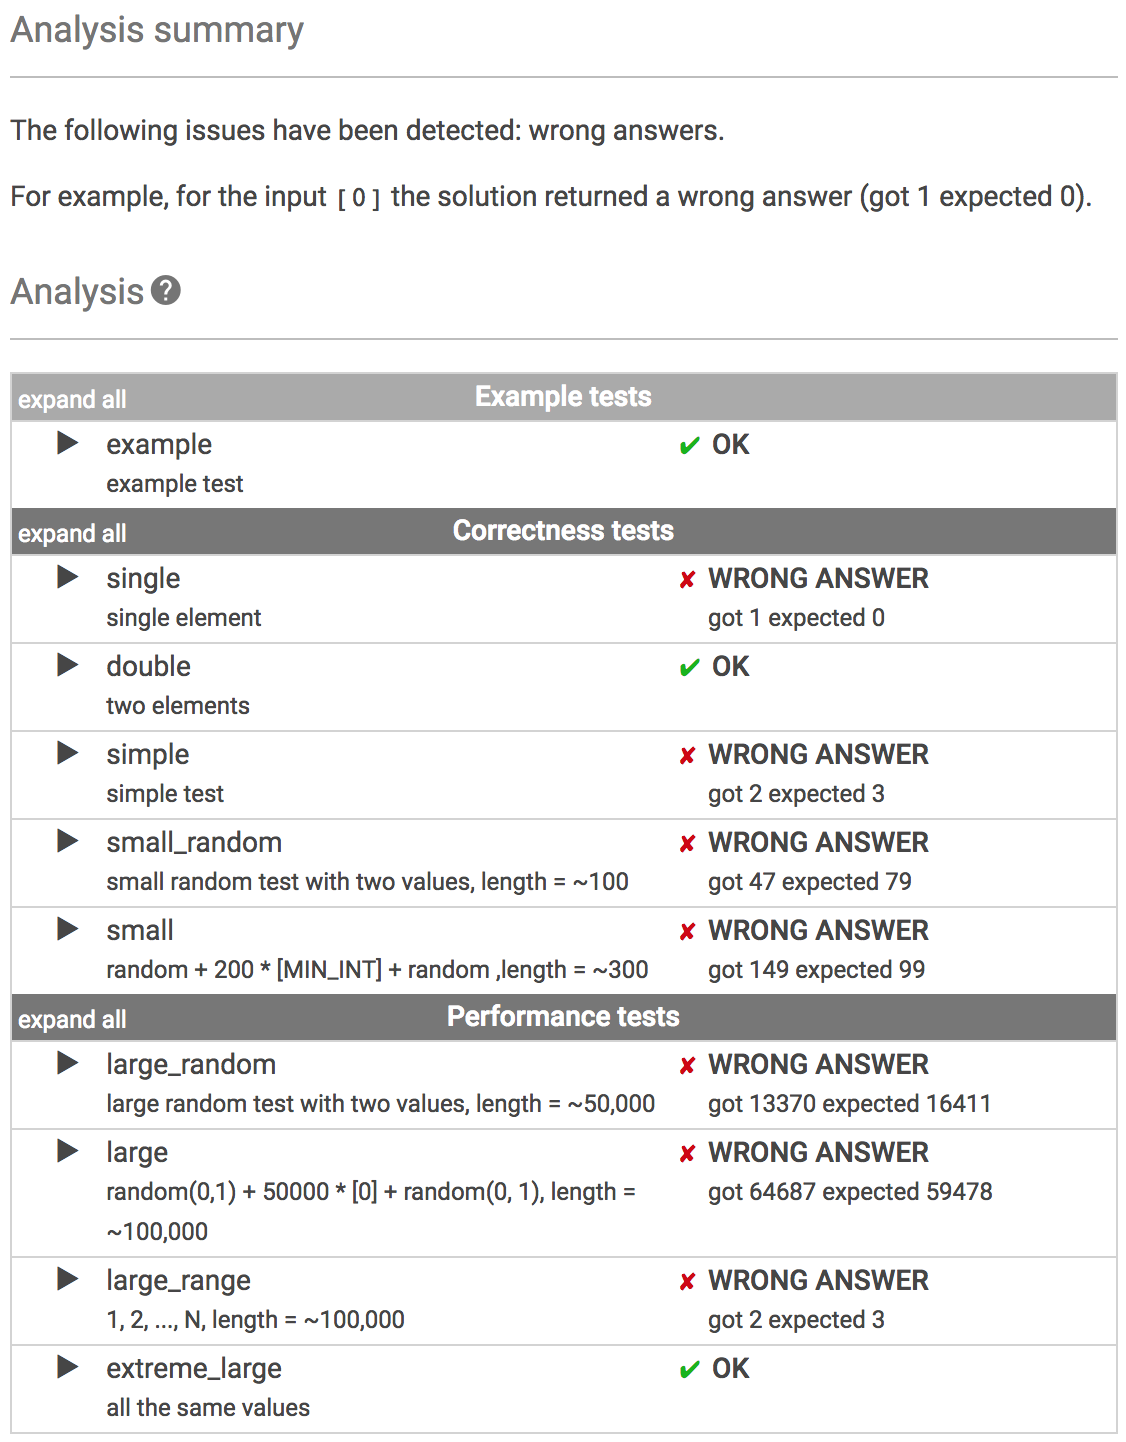
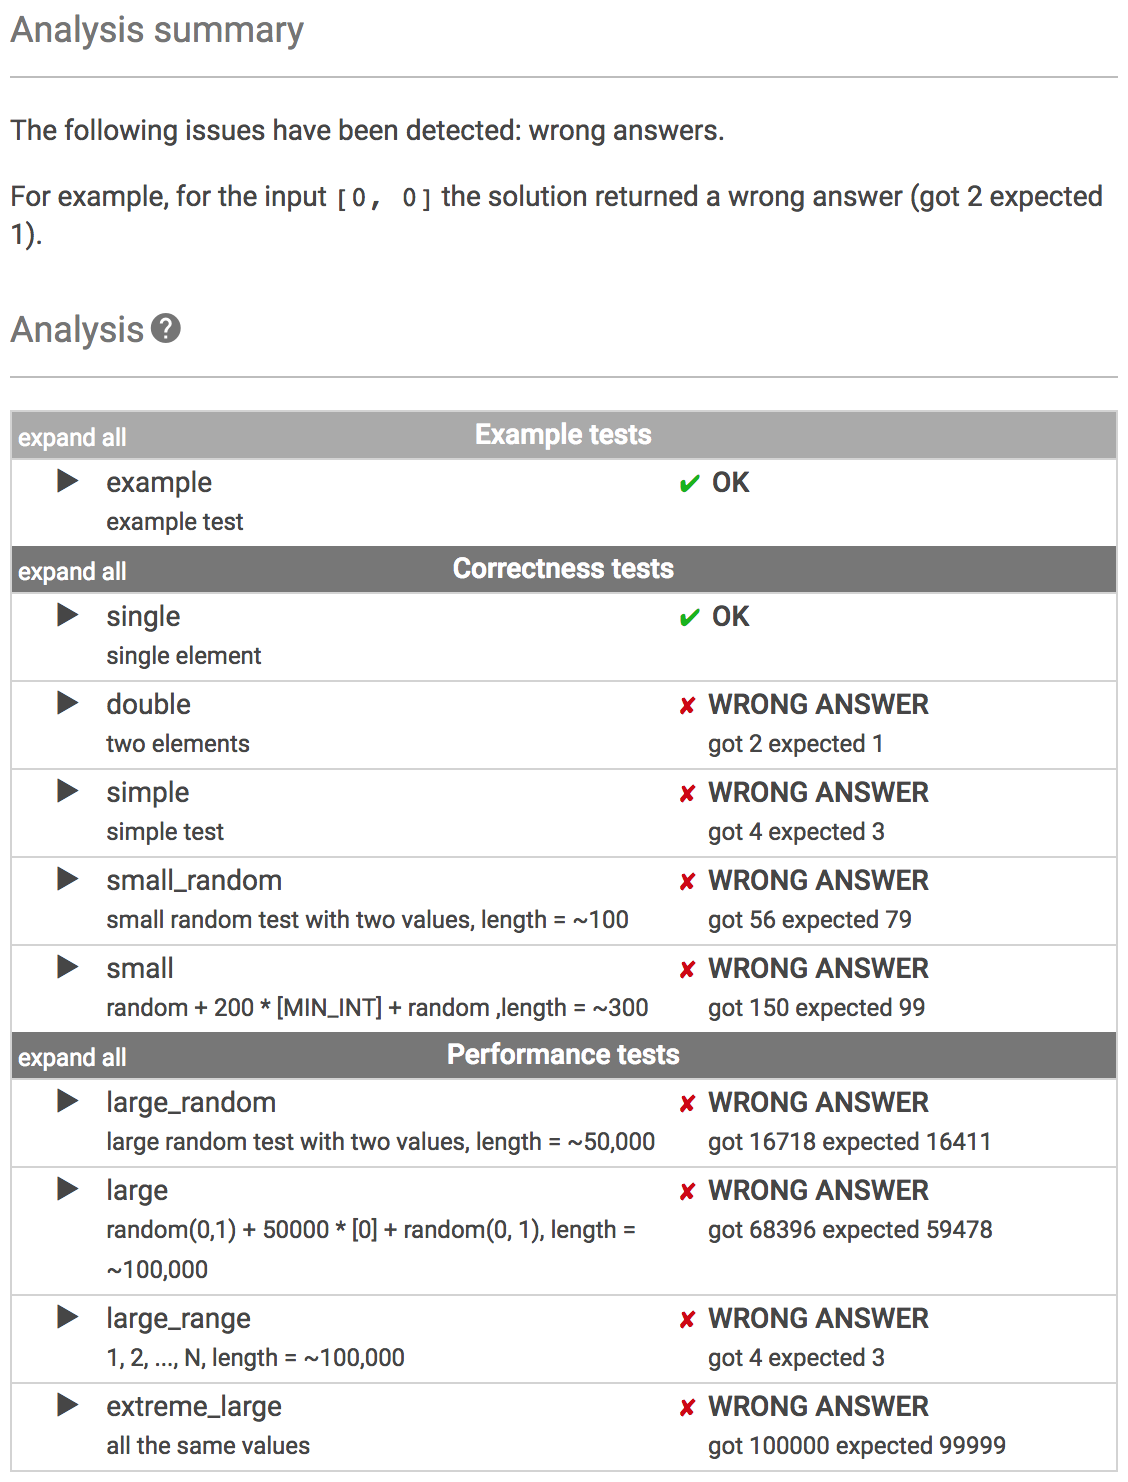
Result_2 for EquiLeader of Lesson_8_Leader.

Changed region(s): [[0.0, 0.1872, 0.9947, 0.9986], [0.0, 0.0, 0.9947, 0.156], [0.5906, 0.8738, 0.9014, 0.9986]]

diff --git a/Lessons/8_Leader/Tasks_EquiLeader/Answer.php b/Lessons/8_Leader/Tasks_EquiLeader/Answer.php
@@ -8,7 +8,7 @@ function solution($A) {
 
     if ($arrLength < 1 || $arrLength > 100000) return 0;
 
-    if ($arrLength === 1) return 1;
+    if ($arrLength === 1) return 0;
 
     $tmpArray = [];
     
@@ -56,6 +56,13 @@ function solution($A) {
         if ($tmpArray[$target][1][$j][1] > $tmpHalfLength)
         {
             $result++;
+
+            $checker = $tmpArray[$target][1][$j][0];
+
+            if ($checker % 2 === 1 && $A[$checker + 1] !== $target)
+            {
+                $result++;
+            }
         }
     }
 
